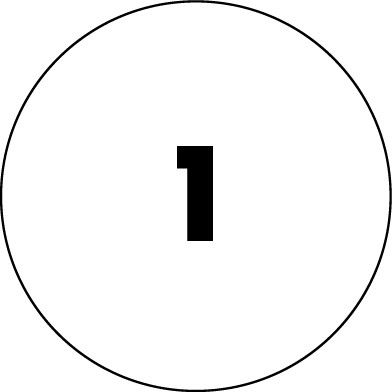
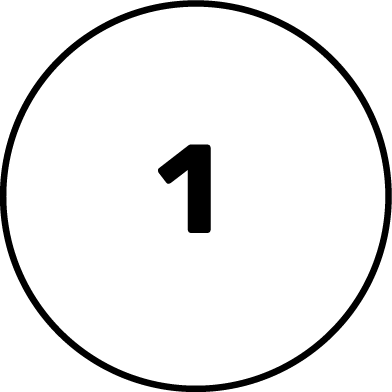
Added better illustrations

diff --git a/docs/index.html b/docs/index.html
@@ -110,13 +110,35 @@
           <div class="bg-black featured-text text-center text-lg-left">
             <h4 class="text-white">One, Two, Three, Go!</h4>
             <br>
-            <p class="text-white-50 mb-0">1. Attach OrBit to your body or instrument.</p>
+            <div class="row">
+              <div class="col-xl-2 col-lg-2">
+                <img class="img-responsive" src="img/product/1.png" style="width: 2.5rem; padding-bottom: 0.5rem;" alt="">
+              </div>
+              <div class="col-xl-10 col-lg-10">
+                <p class="text-white-50 mb-0">Attach OrBit to your body or instrument.</p>
+              </div>
+            </div>
+            
             <br>
-            <p class="text-white-50 mb-0">2. Connect to your digital audio workstation via Bluetooth. </p>
+            <div class="row">
+              <div class="col-xl-2 col-lg-2">
+                  <img class="img-responsive" src="img/product/2.png" style="width: 2.5rem; padding-bottom: 0.5rem;" alt="">
+
+                </div>
+              <div class="col-xl-10 col-lg-10">
+                  <p class="text-white-50 mb-0">Connect to your digital audio workstation via Bluetooth. </p>
+              </div>
+            </div>
+
             <br>
-            <p class="text-white-50 mb-0">3. Select the effects to control</p>
-            <br>
-            <p class="text-white-50 mb-0">Showtime! This is how easy it to augment your performance.</p>
+            <div class="row">
+              <div class="col-xl-2 col-lg-2">
+                <img class="img-responsive" src="img/product/3.png" style="width: 2.5rem; padding-bottom: 0.5rem;" alt="">
+              </div>
+              <div class="col-xl-10 col-lg-10">
+                  <p class="text-white-50 mb-0">Select the digital effects you want to control. Showtime!</p>
+              </div>
+            </div>
           </div>
         </div>
       </div>
